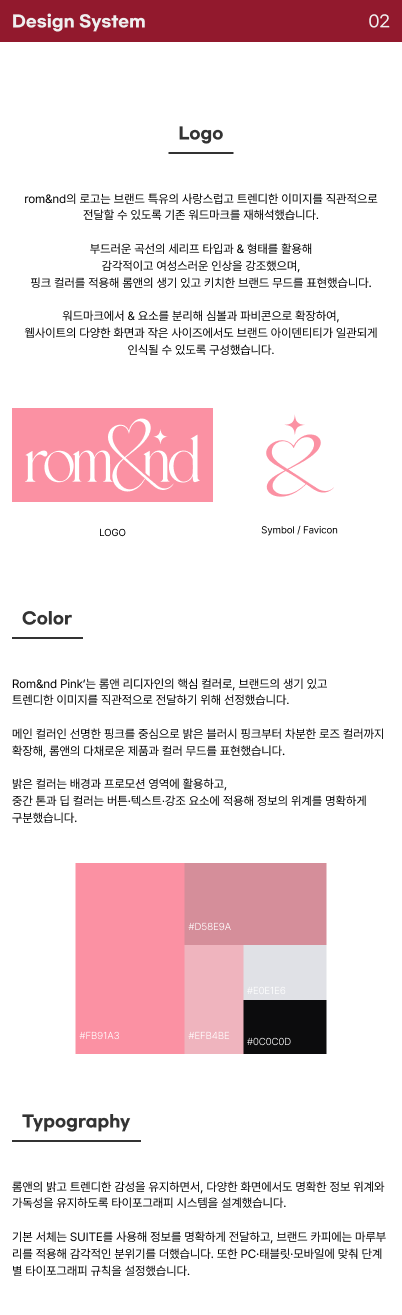
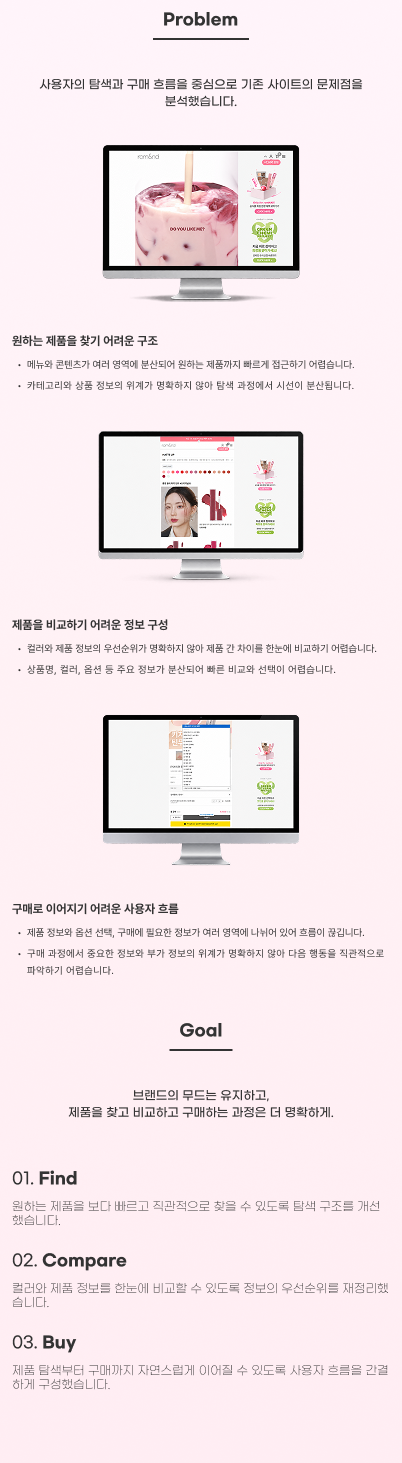
롬앤 mobile 이미지 추가 및 태그 none 태그 추가

diff --git a/index.html b/index.html
@@ -619,7 +619,7 @@
     <img src="./img/responsive-web-projects/pc/rom&nd.png" alt="롬앤1" class="none pc">
     <img src="./img/responsive-web-projects/mo/rom&nd.png" alt="롬앤1" class="none mo">
     <img src="./img/responsive-web-projects/pc/rom&nd-designsystem.png" alt="롬앤2" class="pc">
-    <img src="./img/responsive-web-projects/mo/rom&nd-designsystem.png" alt="롬앤2" class="mo">
+    <img src="./img/responsive-web-projects/mo/rom&nd-designsystem.png" alt="롬앤2" class="none mo">
     <img src="./img/responsive-web-projects/pc/rom&nd-img.png" alt="롬앤3" class="none pc">
     <img src="./img/responsive-web-projects/mo/rom&nd-img.png" alt="롬앤3" class="none mo">
 
